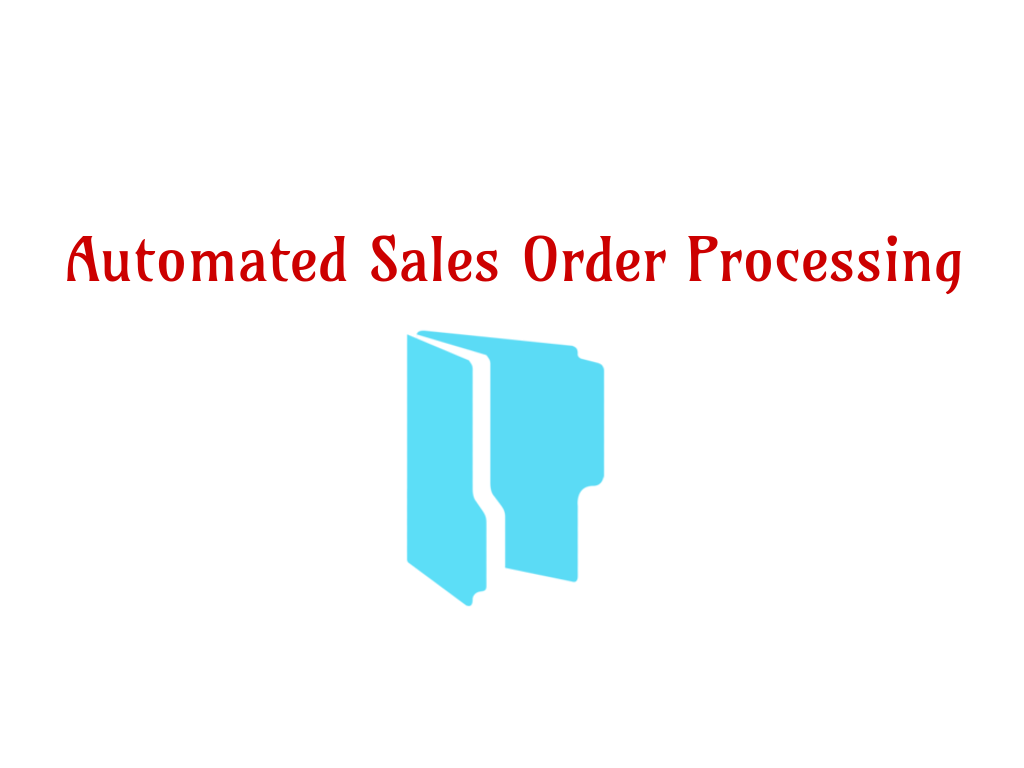
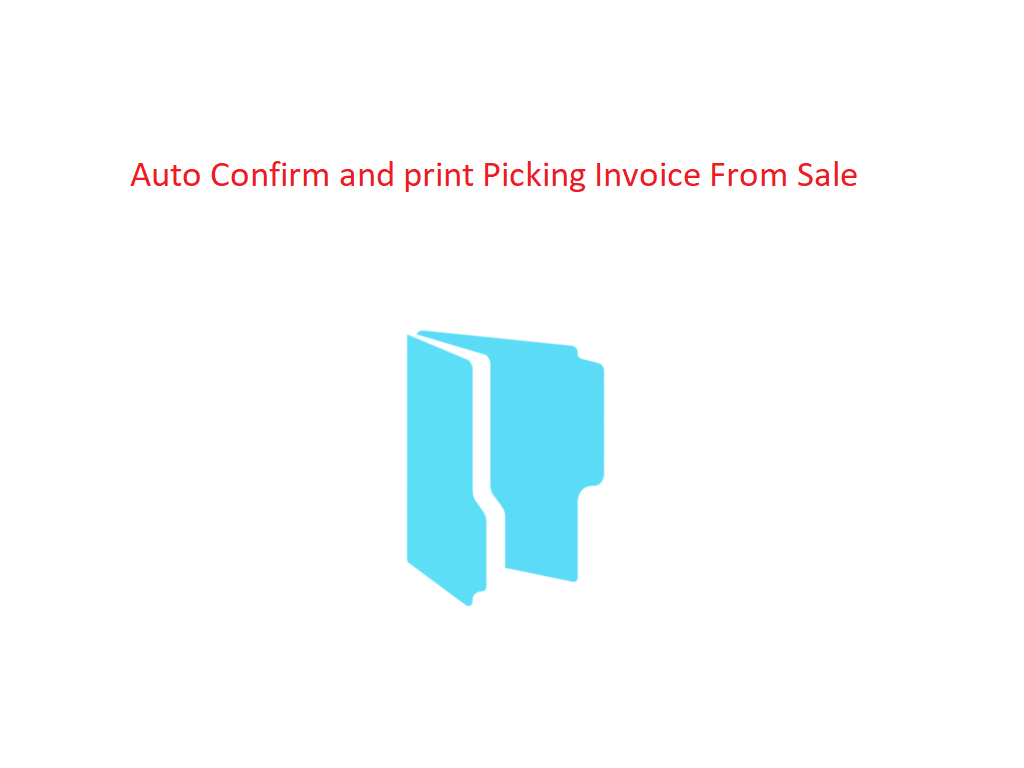
edit

Changed region(s): [[0.0625, 0.3125, 0.9375, 0.375], [0.125, 0.2188, 0.8438, 0.25]]

diff --git a/auto_confirm_picking_invoice_from_sale/static/description/index.html b/auto_confirm_picking_invoice_from_sale/static/description/index.html
@@ -1,0 +1,128 @@
+<section class="oe_container lead mt64">
+	<div>
+		<div class="col-md-12 mt16" style="padding:0;">
+			<div class="col-md-12" style="padding:0;">
+				<div class="panel-group mb0 mt0" role="tablist" id="priceAccordeon" style="padding:0;">
+					<div class="panel-heading mb0 mt0 collapsed" role="tab" data-toggle="collapse" data-parent="#priceAccordeon" data-target="#priceAccordeon_area" aria-expanded="false" style="margin-left:0;padding:0 0 2px 0;text-align:right;">
+						<strong>
+							<div style="background-color:#875A7B;color:white;padding:5px;margin-bottom:3px;text-align:center;border-radius:5px;white-space:nowrap;display: inline-block;">
+								<strong style="color:white;">
+									Supported :
+								</strong>
+							</div>
+							<div style="background-color:#875A7B;color:white;padding:5px;margin-bottom:3px;text-align:center;border-radius:5px;white-space:nowrap;display: inline-block;">
+								<strong style="color:white;" title="The tool is compatible with the Odoo Enterprise version">
+									<i class="fa fa-check" style="margin-left:4px;"> </i>
+									Enterprise
+								</strong>
+							</div>
+							<div style="background-color:#875A7B;padding:5px;margin-top:3px;text-align:center;border-radius:5px;white-space:nowrap;display: inline-block;">
+								<strong style="color:white;" title="The tool is compatible with the Odoo Community version">
+									<i class="fa fa-check" style="margin-left:4px;"> </i>
+									Community
+								</strong>
+							</div>
+							<div style="background-color:#875A7B;color:white;padding:5px;margin-bottom:3px;text-align:center;border-radius:5px;white-space:nowrap;display: inline-block;">
+								<strong style="color:white;" title="The tool might be installed to Odoo.sh if you have a linked private git repository">
+									<i class="fa fa-check" style="margin-left:4px;"> </i>
+									Odoo.sh
+								</strong>
+							</div>
+						</strong>
+					</div>
+				</div>
+			</div>
+		</div>
+	</div>
+</section>
+
+<section class="oe_container lead bi_title_box">
+	<div >
+		<div >
+			<h2 class="oe_slogan bi_title" style="color:#5082c4;">
+				<b> Confirm Sale Order, pikcing or invoice from the same view (Sale view)</b>
+			</h2>
+			<p class="oe_slogan">
+				Odoo Sales Order requires many actions, such as converting a quotation to an order, creating an invoice, validating an invoice, registering payment for an invoice. Normally, one need to perform these actions manually to complete a Sales Order.
+				Auto confirm picking invoice from sale app provides configuration workflow to allow all or some of these specific processes and action. 
+				Once you install the app, you will be able to confrim and print sale, picking and invoice from the same view.
+		</div>
+	</div>
+</section>
+
+<section class="oe_container lead bi_features">
+	<div >
+		<div>
+			<h3 class="oe_slogan" style="opacity:1;background: linear-gradient(to right, #86bcf2 0%, #e2f2f8 100%);padding: 10px 0px;color: ##201111;letter-spacing: 0.2em;text-transform: uppercase;text-shadow: 0.1em .04em 0.1em #7d8c88;"><b>Features</b></h3>
+		</div>
+		<div class="row">
+			<div class="col" style="margin: 10px;">
+				<div class="row">
+					<div class="col-md-3 text-center">
+						<img class="img img-responsive" style="max-width:100%;" src="features/picking_auto_icon.png"/>
+					</div>
+					<div class="col-md-9">
+					  <h4><b>Create, Confirm and Validate</b></h4>
+					  <span class="oe_slogan"> Auto confirm all step needed for order and validate order on one click.  </span>
+					</div>
+				</div>
+			</div>
+			<div class="col" style="margin: 10px;">
+				<div class="row">
+					<div class="col-md-3 text-center">
+						<img class="img img-responsive" style="max-width:100%;" src="features/invoice_auto_icon.png"/>
+					</div>
+					<div class="col-md-9">
+						<h4><b> Print Invoice, picking from sale view </b></h4>
+						<span class="oe_slogan"> You can print all your document from the same page.  </span>
+					</div>
+				</div>
+			</div>
+		</div>
+
+	</div>
+</section>
+
+
+<section class="oe_container lead">
+	<div>
+		<div>
+			<p class="oe_slogan" style="color: #49a3fe;font-size: 35px;font-style: italic;font-weight:bolder;">Button to Confirm Sale Order, pikcing or invoice</p>
+			<img class="img-border img-responsive thumbnail mb16" style="border: 3px solid black;" src="invoice_dash.png">
+		</div>
+	</div>
+</section>
+
+<section class="oe_container lead">
+	<div>
+		<div>
+			<p class="oe_slogan" style="color: #49a3fe;font-size: 35px;font-style: italic;font-weight:bolder;"> Autorise negative stock</p>
+			<img class="img-border img-responsive thumbnail mb16" style="border: 3px solid black;" src="auto_flow_form.png">
+		</div>
+	</div>
+</section>
+
+<section class="oe_container lead">
+	<div>
+		<div>
+			<p class="oe_slogan" style="color: #49a3fe;font-size: 35px;font-style: italic;font-weight:bolder;">Print Quotation, pikcing or invoice </p>
+			<img class="img-border img-responsive thumbnail mb16" style="border: 3px solid black;" src="customer_auto.png">
+		</div>
+	</div>
+</section>
+
+
+<section class="oe_container lead">
+	<div >
+		<div >
+			<div class="img img-responsive text-center">
+				<a href="http://www.weblemon.org" target="new" style="display: grid;">
+					<img src="https://weblemon.org/wp/wp-content/uploads/2015/10/logo1.png" style="margin: auto;max-width: 350px;">
+				</a>
+			</div>
+		</div>
+		<div class="oe_slogan oe_spaced text-center">
+			<a class="btn mt8" title="Email on Support" style="background-color: #3497db;color: #FFFFFF !important;font-size: 20px;font-weight: bold;" href="mailto='contact@weblemon.org'" target="_blank"> Support Request </a>
+		</div>
+	</div>
+</section>

diff --git a/auto_confirm_picking_invoice_from_sale/__manifest__.py b/auto_confirm_picking_invoice_from_sale/__manifest__.py
@@ -5,10 +5,25 @@
 	'version': '15.0.0.0',
 	'summary': 'Auto sale to Invoice auto sale order processing automatic sales order process auto sales process Automatic sales Invoice confirmation processing automatic workflow for sales order auto process sale order auto workflow sale auto workflow sales single click',
 	'description': '''
-	 Automatic sale order Invoice and Delivery confirmation and processing auto sales odoo
+	odoo Automatic sale order Invoice and Delivery confirmation and processing auto sales odoo
+	odoo Automatic sales Invoice Delivery confirmation processing auto
+	odoo Automated Sales Order Processing Automated Sale Order Processing odoo
+	odoo Automated Sales confirm Automated Sale confirm odoo
+	odoo sale order auto confirm odoo automated sales order auto workflow odoo
+	odoo automatic print for sales order auto sales order process sale order auto process odoo
+	odoo sale auto print sale auto process sale automatic process odoo
+	odoo sales auto print sales auto process sales automatic process odoo
+	odoo sales order auto print sales order auto process sales order automatic process odoo
+	odoo sale order auto print sale order auto process sale order automatic process odoo
+	odoo auto sale order print automatic Sales Order confirm automatic Sale Order confirm
+	odoo automatic Sales print automatic Sale confirm auto workflow for sales order
+	odoo reduce sales order print reduce sale confirm reduce sale order process
+	odoo automatic workflow for sales order automatic workflow for sale order
 	 ''',
-	'author': 'Mohamed Rahmouni',
-	'website': 'https://www.cadrinsitu.com',
+	"price": 20,
+    "currency": "EUR",
+	'author': 'medconsultantweb@gmail.com',
+	'website': 'https://www.weblemon.org',
 	'category': 'Sales',
 	'depends': ['base','sale_management','stock', 'sale_easy', 'account'],
 	'data': [
